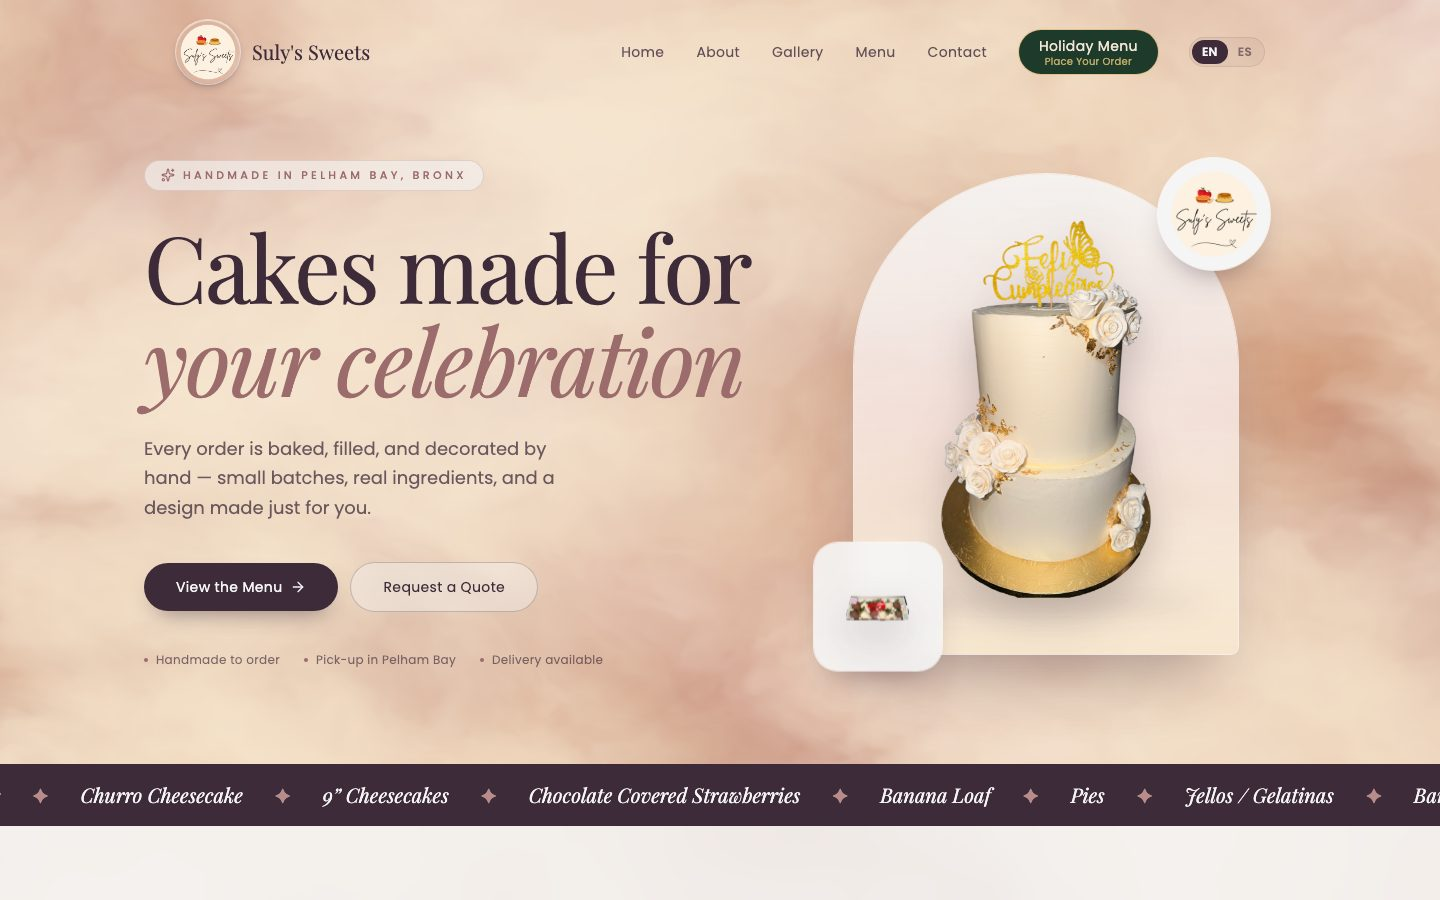
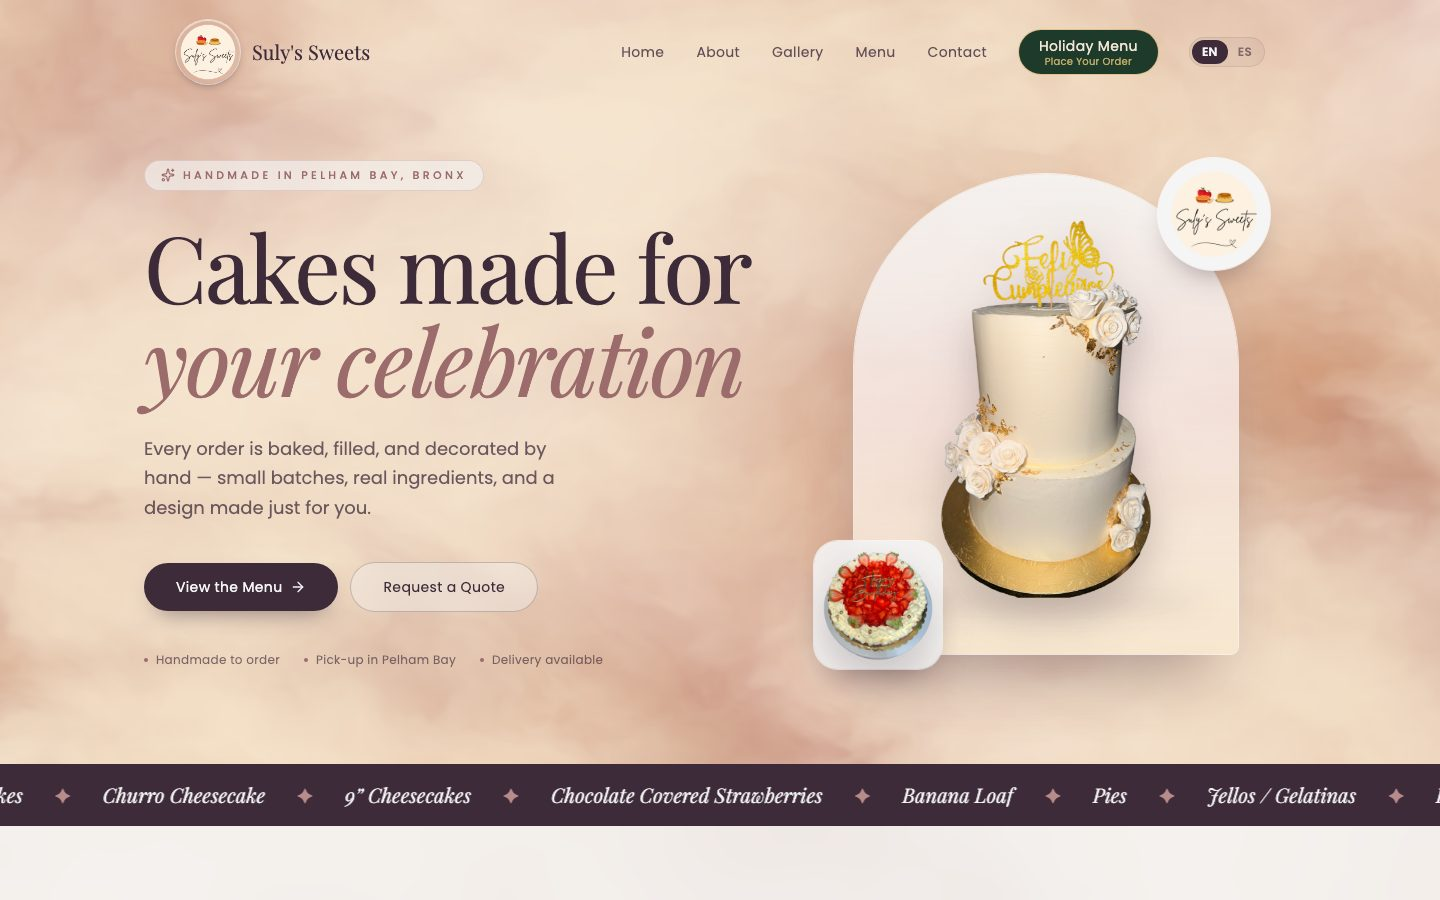
Use a properly cropped photo for the hero's floating card
The strawberries image is a short strip inside a tall transparent canvas,
so it rendered as a sliver in the square card. Use a tightly cropped,
resized strawberry cake photo instead and refresh the README screenshots.

Changed region(s): [[0.0, 0.8711, 1.0, 0.9022], [0.5625, 0.5911, 0.6562, 0.7467]]

diff --git a/src/components/Hero.jsx b/src/components/Hero.jsx
@@ -78,10 +78,10 @@ export default function Hero({ onNavigate }) {
 
           <div className="animate-float absolute -bottom-6 -left-4 w-28 rounded-3xl bg-cream/90 p-2 ring-1 ring-white/70 shadow-[0_20px_35px_-18px_rgba(61,43,57,0.45)] backdrop-blur-sm sm:-left-10 sm:w-32">
             <img
-              src="/SlideShow/chocolateCoveredStrawberries.png"
-              alt="Chocolate covered strawberries by Suly's Sweets"
-              width={506}
-              height={900}
+              src="/hero-strawberry-cake.png"
+              alt="Fresh strawberry cake by Suly's Sweets"
+              width={288}
+              height={288}
               loading="lazy"
               className="cutout-shadow aspect-square w-full object-contain"
             />
